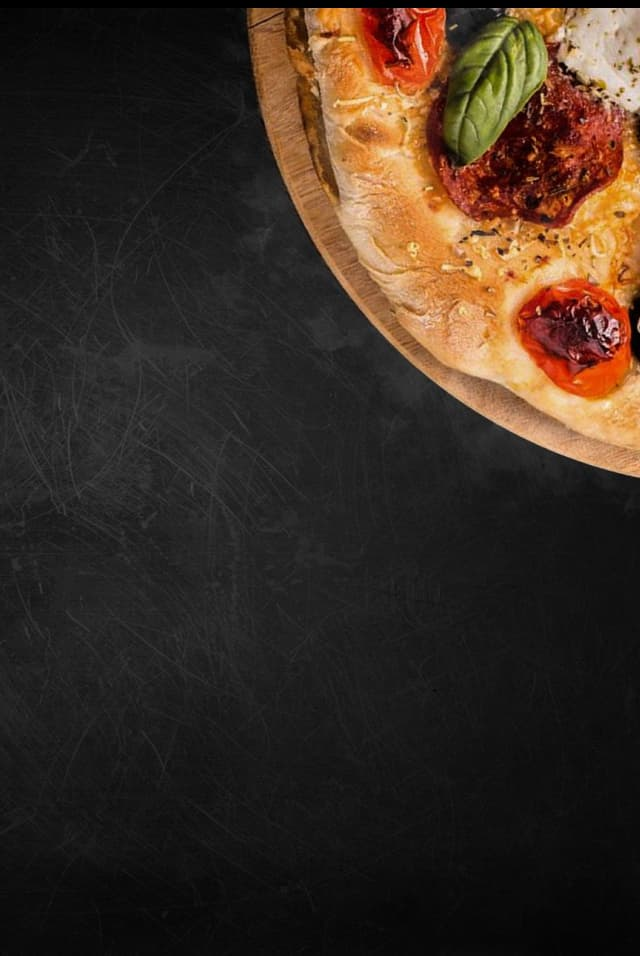
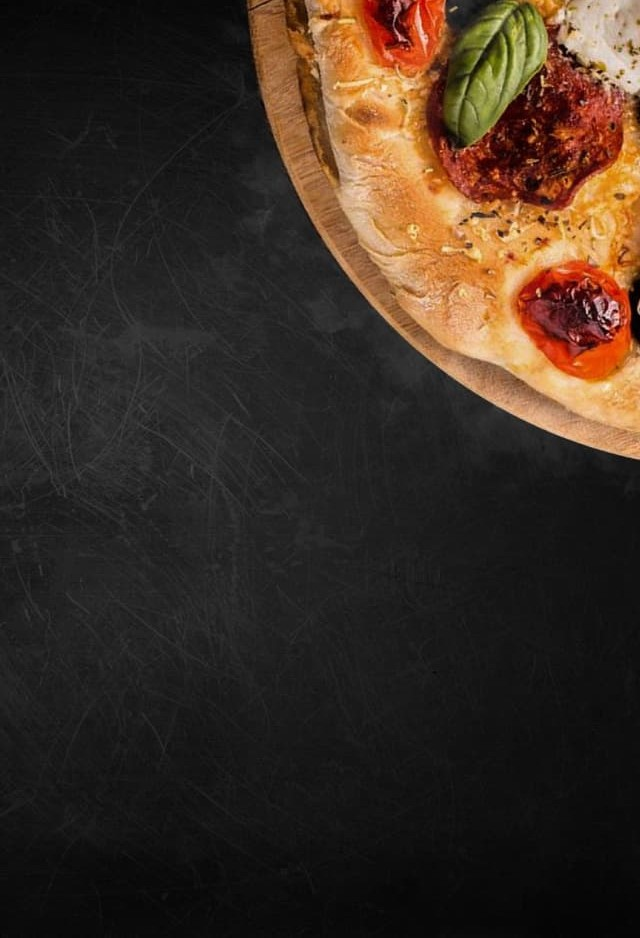
adding food section

Changed region(s): [[0.375, 0.0, 1.0, 0.5256]]

diff --git a/src/partials/our_food.html b/src/partials/our_food.html
@@ -1,1 +1,60 @@
-<h2>fOOD</h2>
+<section class="food">
+  <h2 class="food-title">Our <span>Dishes</span></h2>
+  <div class="container">
+    <picture>
+      <source
+        media="(min-width: 1200px)"
+        srcset="/img/pizza-desk.jpg 1x, /img/pizza-desk-2x.jpg 2x"
+      />
+      <source
+        media="(min-width: 320px)"
+        srcset="/img/pizza-mob.jpg 1x, /img/pizza-mob-2x.jpg 2x"
+      />
+
+      <img
+        src="/img/pizza-desk.jpg"
+        srcset="/img/pizza-desk.jpg 1x, /img/pizza-desk2x.jpg 2x"
+        alt="Burger"
+        class="food-img"
+      />
+    </picture>
+    <ul class="food-list">
+      <li class="food-list-item">
+        <img
+          src="/img/burger.jpg"
+          srcset="/img/humburger.jpg 1x, /img/humburger-2x.jpg 2x"
+          alt="food-item"
+          class="food-item-img"
+        />
+        <div class="food-title-wrap">
+          <h3 class="food-list-item-title">Mini Hamburger</h3>
+          <p class="food-list-item-text">7$</p>
+        </div>
+      </li>
+      <li class="food-list-item">
+        <img
+          src="/img/burger.jpg"
+          srcset="/img/humburger.jpg 1x, /img/humburger-2x.jpg 2x"
+          alt="food-item"
+          class="food-item-img"
+        />
+        <div class="food-title-wrap">
+          <h3 class="food-list-item-title">Mini Hamburger</h3>
+          <p class="food-list-item-text">7$</p>
+        </div>
+      </li>
+      <li class="food-list-item">
+        <img
+          src="/img/burger.jpg"
+          srcset="/img/humburger.jpg 1x, /img/humburger-2x.jpg 2x"
+          alt="food-item"
+          class="food-item-img"
+        />
+        <div class="food-title-wrap">
+          <h3 class="food-list-item-title">Mini Hamburger</h3>
+          <p class="food-list-item-text">7$</p>
+        </div>
+      </li>
+    </ul>
+  </div>
+</section>

diff --git a/src/css/our_food.css b/src/css/our_food.css
@@ -1,0 +1,92 @@
+.food {
+  height: 100%;
+  margin-bottom: 48px;
+}
+.food .container {
+  padding-left: 0;
+  padding-right: 0;
+  display: flex;
+  flex-direction: column;
+}
+.food-title {
+  font-weight: 400;
+  font-size: 40px;
+  text-align: center;
+  color: #000;
+  margin-bottom: 48px;
+}
+
+.food-title span {
+  color: #d67e34;
+}
+.food-img {
+  margin-bottom: 48px;
+}
+.food-list {
+  padding-left: 14px;
+  padding-right: 14px;
+  display: flex;
+  flex-direction: column;
+  gap: 24px;
+}
+.food-list-item {
+  display: flex;
+  gap: 8px;
+}
+
+.food-item-img {
+  width: 150px;
+}
+.food-title-wrap {
+  display: flex;
+  flex-direction: column;
+  justify-content: center;
+  align-items: center;
+}
+.food-list-item-title {
+  font-weight: 400;
+  font-size: 18px;
+  color: #000;
+}
+.food-list-item-text {
+  font-weight: 400;
+  font-size: 24px;
+  color: #000;
+}
+
+@media screen and (min-width: 1200px) {
+  .food .container {
+    padding-left: 165px;
+    padding-right: 165px;
+    flex-direction: row;
+    justify-content: space-between;
+  }
+  .food-img {
+    margin-bottom: 0;
+  }
+  .food-item-img {
+    width: 162px;
+  }
+  .food-list {
+    padding: 0;
+  }
+  .food-title-wrap {
+    flex-direction: row;
+  }
+  .food-list-item-title {
+    font-size: 24px;
+    display: flex;
+    justify-content: center;
+    align-items: center;
+  }
+
+  .food-list-item-title::after {
+    content: '';
+    display: block;
+    width: 204px;
+    transform: rotate(180deg);
+    border-bottom: 1px dashed #000;
+    margin-left: 8px;
+    margin-right: 8px;
+  }
+}

diff --git a/src/css/reset.css b/src/css/reset.css
@@ -4,13 +4,8 @@ body {
   position: relative;
   display: flex;
   flex-direction: column;
-  min-width: 100vw;
   min-height: 100vh;
   margin: 0;
-}
-
-main {
-  flex-grow: 1;
 }
 
 :root {
